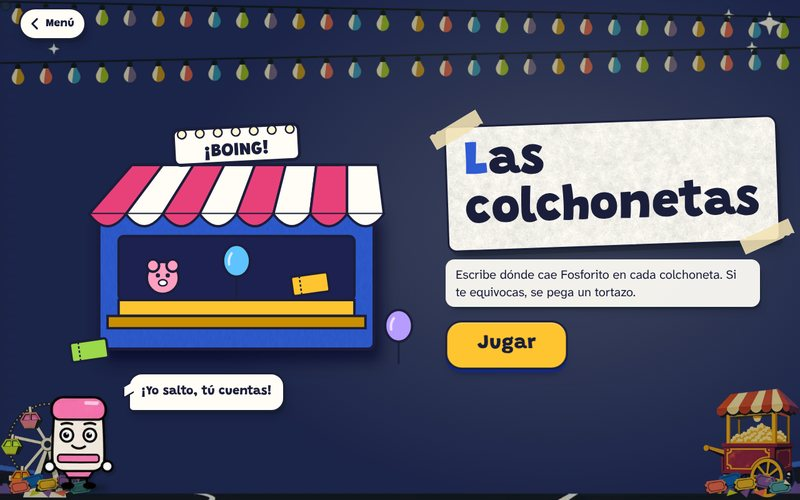
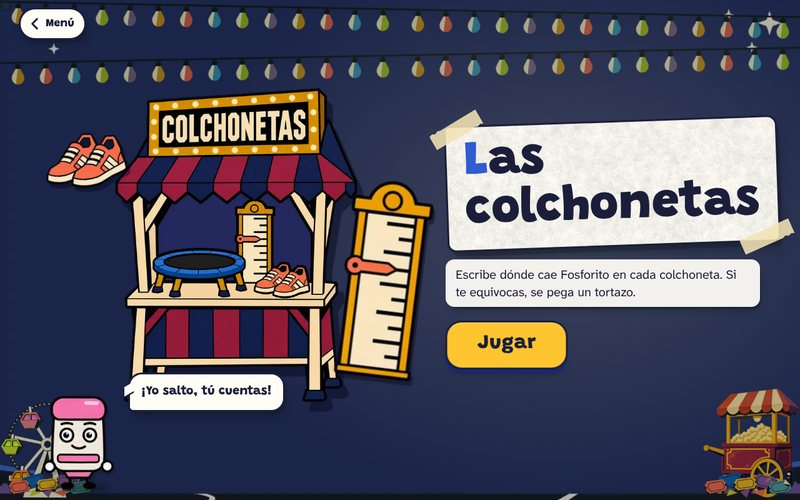
Las 18 casetas que faltaban, ilustradas por ChatGPT, en sus portadas y en el catálogo
Claude-Session: https://claude.ai/code/session_01QUDmSgHLXgaRdHN8Km8PUg

Changed region(s): [[0.0625, 0.18, 0.5625, 0.81]]

diff --git a/public/juegos/motores/portada.js b/public/juegos/motores/portada.js
@@ -142,7 +142,8 @@ const ARTE = {
 
 // casetas ilustradas de la feria: la caseta recortada y sus objetos sueltos (que saltan al pulsar «Jugar»)
 const FER = new URL('./feria/', import.meta.url).href;
-const CASETAS = { 'la-tombola': ['tombola', 2], 'el-candado-de-la-taquilla': ['taquilla', 3], 'la-caja-registradora': ['caja', 2], 'la-noria': ['noria', 2] };
+const CASETAS = { 'la-tombola': ['tombola', 2], 'el-candado-de-la-taquilla': ['taquilla', 3], 'la-caja-registradora': ['caja', 2], 'la-noria': ['noria', 2], 'el-gran-concurso': ['el-gran-concurso', 3] };
+for (const s of ['el-cambio', 'los-patitos', 'las-colchonetas', 'pares-y-nones', 'la-bascula', 'el-martillo-de-fuerza', 'la-tirolina', 'la-caseta-de-los-records', 'tijeras-y-abanicos', 'las-banderolas', 'la-ruleta', 'los-farolillos', 'las-manzanas-de-caramelo', 'las-tiras-de-tickets', 'las-tres-cartas', 'el-puesto-de-chapas', 'los-encargos']) CASETAS[s] = [s, 2];
 const casetaIlustrada = ([n, piezas], titulo) => `<div class="arte arte-caseta-img" aria-hidden="true"><img class="caseta-img" src="${FER}caseta-${n}.webp" alt="" draggable="false">
     <div class="abertura">${Array.from({ length: piezas }, (_, i) => `<img class="pieza pz${i + 1}" src="${FER}pieza-${n}-${i + 1}.webp" alt="" draggable="false">`).join('')}</div></div>`;
 
